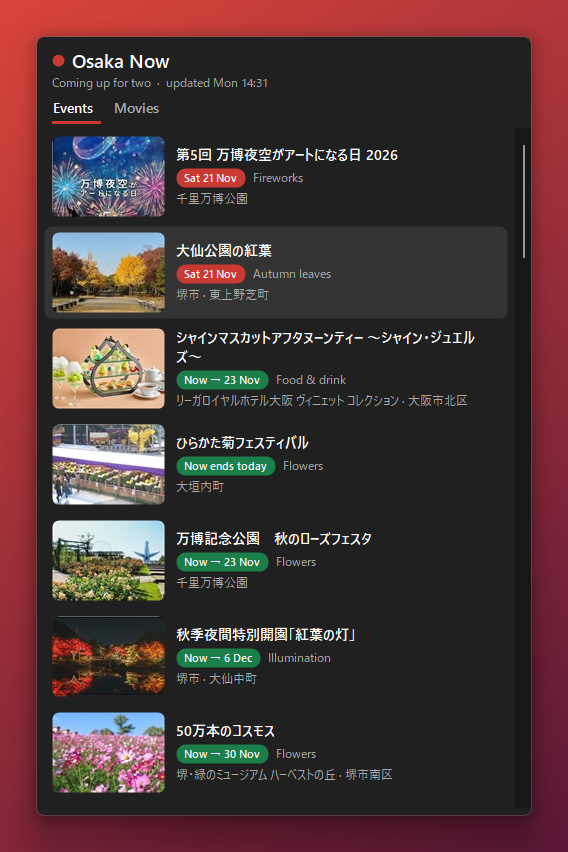
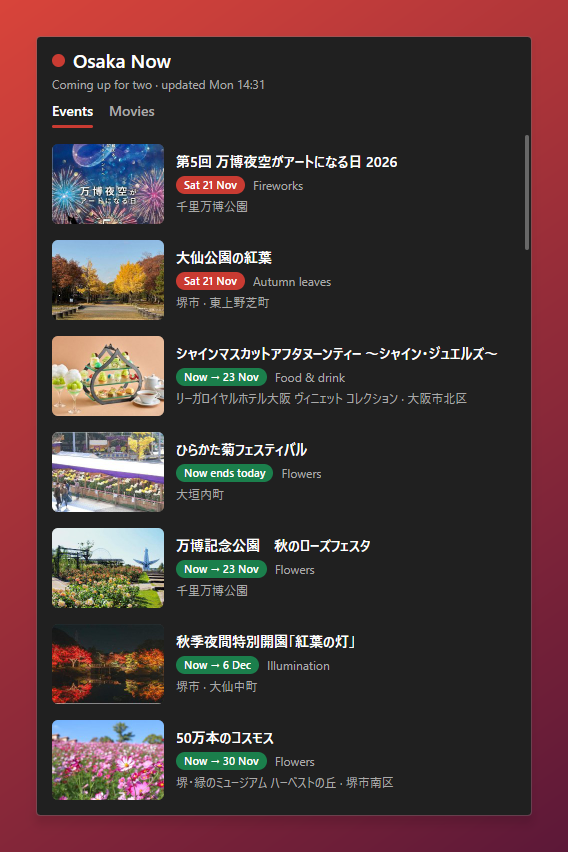
docs: cover installing and building on all three systems

Changed region(s): [[0.0299, 0.061, 0.8979, 1.0], [0.8979, 0.1221, 0.9577, 0.885], [0.6585, 0.3662, 0.868, 0.4272]]

diff --git a/README.md b/README.md
@@ -4,16 +4,17 @@
 
 # Osaka Now
 
-**What's on in Osaka, one click from your Windows taskbar.**
+**What's on in Osaka, one click from your taskbar or menu bar.**
 
 Events worth going out for and TOHO Cinemas showtimes with live seat availability,<br>
-in a 62 KB system tray app with no installer, no account and no dependencies.
+in a small tray app for Windows, macOS and Linux.
 
 [![Build](https://github.com/ian-ledig/osaka-now/actions/workflows/build.yml/badge.svg)](https://github.com/ian-ledig/osaka-now/actions/workflows/build.yml)
 [![Latest release](https://img.shields.io/github/v/release/ian-ledig/osaka-now?color=c93b32)](https://github.com/ian-ledig/osaka-now/releases/latest)
 [![Downloads](https://img.shields.io/github/downloads/ian-ledig/osaka-now/total?color=c93b32)](https://github.com/ian-ledig/osaka-now/releases)
 [![License: MIT](https://img.shields.io/badge/license-MIT-blue.svg)](LICENSE)
-![Platform: Windows 10 and 11](https://img.shields.io/badge/platform-Windows%2010%20%7C%2011-0078d4)
+![Platforms: Windows, macOS, Linux](https://img.shields.io/badge/platform-Windows%20%7C%20macOS%20%7C%20Linux-0078d4)
+![Built with Go and Wails](https://img.shields.io/badge/built%20with-Go%20%2B%20Wails-00add8)
 
 [**Download**](https://github.com/ian-ledig/osaka-now/releases/latest) · [What it does](#what-it-does) · [Install](#install) · [How it works](#how-events-are-sorted) · [日本語](#日本語)
 
@@ -25,6 +26,8 @@ in a 62 KB system tray app with no installer, no account and no dependencies.
 
 </div>
 
+Hi! I'm a young adult living in Osaka, trying to enjoy the city after work and on weekends. I made this small app for myself, to see quickly what's on around here. If you live in Osaka too, I hope it gets you out a bit more.
+
 The interface is in English. Event and film titles stay in Japanese, the way the sites publish them.
 
 ## What it does
@@ -33,25 +36,52 @@ The interface is in English. Event and film titles stay in Japanese, the way the
 - Lists the films now showing at TOHO Cinemas, most recent release first.
 - Click a film to see its showtimes at Umeda or Namba on a day you choose, with the seat status of each showing. Clicking a showing opens TOHO's seat selection page for it in your browser.
 - Refreshes in the background every six hours. If a refresh finishes while the window is open, the list is left as it is until you open it again.
-- Follows the Windows light or dark setting.
+- Follows the system's light or dark setting.
 
 ## Install
 
-You need Windows 10 or 11. The .NET Framework it runs on is already part of Windows.
+Download the file for your system from the [latest release](https://github.com/ian-ledig/osaka-now/releases/latest). There is no account and nothing to configure.
 
-1. Download `OsakaNow.exe` from the [latest release](https://github.com/ian-ledig/osaka-now/releases/latest).
-2. Put it in a folder you will keep, for example `Documents\OsakaNow`, and double-click it. The exe is not code-signed, so SmartScreen may stop it the first time: choose *More info*, then *Run anyway*.
-3. A red dot appears in the system tray. Windows puts new icons under *Show hidden icons* (the `^` arrow). Drag the dot onto the taskbar if you want it always visible.
-4. Right-click the dot and tick *Start with Windows*.
+### Windows
 
-Using it:
+Download `OsakaNow-windows-x64.exe`, put it in a folder you will keep, and double-click it. The file is not code-signed, so SmartScreen may stop it the first time: choose *More info*, then *Run anyway*.
 
-- Left-click the tray icon to open or close the list.
+A red dot appears in the system tray. Windows puts new icons under *Show hidden icons* (the `^` arrow); drag the dot onto the taskbar if you want it always visible.
+
+It uses the WebView2 runtime, which is part of Windows 11 and of any Windows 10 that is up to date.
+
+### macOS
+
+Download `OsakaNow-macos-universal.zip` (it works on both Apple silicon and Intel Macs), unzip it and move `OsakaNow.app` to *Applications*.
+
+The app is not notarized by Apple, so the first launch needs one extra step: right-click the app, choose *Open*, then *Open* again. If macOS still refuses, run this once in Terminal:
+
+```sh
+xattr -cr /Applications/OsakaNow.app
+```
+
+The red dot appears in the menu bar. There is no Dock icon.
+
+### Linux
+
+Pick the package for your distribution:
+
+```sh
+sudo apt install ./OsakaNow-linux-x64.deb      # Debian, Ubuntu
+sudo dnf install ./OsakaNow-linux-x64.rpm      # Fedora
+chmod +x OsakaNow-linux-x64.AppImage && ./OsakaNow-linux-x64.AppImage
+```
+
+It needs GTK 4 and WebKitGTK 6, which the `.deb` and `.rpm` pull in by themselves. On GNOME, tray icons only show with the [AppIndicator extension](https://extensions.gnome.org/extension/615/appindicator-support/).
+
+### Using it
+
+- Click the tray icon to open or close the list. Right-click it for *Open*, *Refresh now*, *Start at login* and *Quit*.
 - Click an event to open its page in your browser.
 - Click a film for its showtimes. `Esc` or `Backspace` goes back.
-- Right-click the tray icon for *Refresh now*, *Start with Windows* and *Exit*.
+- Starting the app a second time opens the window of the one already running.
 
-To uninstall, untick *Start with Windows*, choose *Exit*, then delete the exe and the folder `%LOCALAPPDATA%\OsakaNow`.
+To remove it, untick *Start at login*, choose *Quit* and delete the app. Its cache is the `OsakaNow` folder in `%LocalAppData%` (Windows), `~/Library/Caches` (macOS) or `~/.cache` (Linux).
 
 ## How events are sorted
 
@@ -61,7 +91,7 @@ Most of the score is about time. A short event that is on right now scores highe
 
 The rest comes from keywords in the title and description. There is a list of keyword groups that add points (illumination, fireworks, Christmas, autumn leaves, flowers, food and drink, markets, art, music, festivals) and a list that subtracts (children, family, seminars, and similar). Small bonuses go to events that cover the coming weekend and to events the source sites rank as popular.
 
-Both lists are plain arrays at the top of [`OsakaNow.cs`](OsakaNow.cs). If dates are not what you are planning, replace the words and rebuild.
+Both lists are in [`internal/feed/tuning.go`](internal/feed/tuning.go). If dates are not what you are planning, replace the words and rebuild.
 
 ## Where the data comes from
 
@@ -74,31 +104,34 @@ Both lists are plain arrays at the top of [`OsakaNow.cs`](OsakaNow.cs). If dates
 
 Requests are spaced one second apart. Thumbnails are downloaded once, kept as small JPEGs, and deleted after 30 days.
 
-The app does not collect or send anything about you. The sites above are the only hosts it contacts, and the only thing it writes is a cache in `%LOCALAPPDATA%\OsakaNow`.
+The app does not collect or send anything about you. The sites above are the only hosts it contacts, and the only thing it writes is its cache folder.
 
 ## Build from source
 
-You don't need Visual Studio or an SDK. `build.cmd` uses the C# compiler that comes with Windows.
+The app is written in Go with [Wails 3](https://wails.io/): Go does the fetching and ranking, and the window is a small web page in the system's own web view. You need [Go](https://go.dev/dl/) 1.26 or newer and [Node.js](https://nodejs.org/).
 
-```bat
+```sh
 git clone https://github.com/ian-ledig/osaka-now.git
 cd osaka-now
-build.cmd
-OsakaNow.exe
+go install github.com/wailsapp/wails/v3/cmd/wails3@v3.1.0
+wails3 build
 ```
 
-Two switches are useful when you change something:
+The result is in `bin/`. On Linux, install the headers first: `sudo apt install libgtk-4-dev libwebkitgtk-6.0-dev`.
 
-```bat
-OsakaNow.exe --selftest
-OsakaNow.exe --dump > ranking.txt
+Useful while working on it:
+
+```sh
+wails3 dev               # run with live reload
+go test ./internal/...   # run the tests
+bin/OsakaNow --dump      # fetch everything once and print both lists with their scores
 ```
 
-`--selftest` runs offline checks on the parsing, the sorting and the link validation. `--dump` fetches everything once and prints both lists with their scores.
+[CONTRIBUTING.md](CONTRIBUTING.md) explains where things are.
 
 ## Changing things
 
-The settings are constants at the top of the `Core` class in [`OsakaNow.cs`](OsakaNow.cs):
+The settings are in [`internal/feed/tuning.go`](internal/feed/tuning.go):
 
 - `Likes` and `Dislikes`: the keyword groups that raise or lower an event.
 - `Sources`: the listing pages to read. Any Walkerplus or Jalan area page works, so Kyoto, Kobe or Tokyo is a matter of changing the URLs.
@@ -107,11 +140,13 @@ The settings are constants at the top of the `Core` class in [`OsakaNow.cs`](Osa
 
 ## Limitations
 
-- It reads public web pages. If one of the sites changes its layout, a tab can come up empty until the parser is fixed. Please [open an issue](https://github.com/ian-ledig/osaka-now/issues/new/choose) if that happens.
+- I made it and use it on Windows. The macOS and Linux versions are built and started automatically for every release, but they have had much less real use, so please [report](https://github.com/ian-ledig/osaka-now/issues/new/choose) anything odd.
+- It reads public web pages. If one of the sites changes its layout, a tab can come up empty until the parser is fixed.
 - TOHO does not publish release dates, so they are looked up on eiga.com by title. A few films, mostly re-runs, don't match and are sorted last.
 - The Movies tab lists everything TOHO is showing in Japan. A film may have no showings at Umeda or Namba.
 - Japanese public holidays are not treated as weekends.
-- Dark mode is the one that has been used day to day. Light and high-contrast modes are less tested, and it has not been tried with a screen reader.
+- The window is a web view, so it uses more memory than a native tray app would: around 200 MB on Windows while it is running.
+- The downloads are not signed, which is why Windows and macOS ask before the first launch.
 
 ## Contributing
 
@@ -119,14 +154,14 @@ Issues and pull requests are welcome. [CONTRIBUTING.md](CONTRIBUTING.md) has the
 
 ## 日本語
 
-大阪のイベントと、TOHOシネマズ梅田・なんばの上映時間（空席状況つき）を、タスクトレイから見られる Windows 用の小さなアプリです。
+大阪のイベントと、TOHOシネマズ梅田・なんばの上映時間（空席状況つき）を、タスクトレイやメニューバーから見られる小さなアプリです。Windows・macOS・Linux で動きます。
 
 - 大阪府内のイベントを、開催日が近いものやデート向きのもの（イルミネーション、花火、紅葉、グルメ、マルシェ、展覧会など）から順に表示します。
 - TOHOシネマズで上映中の作品を、公開日が新しい順に表示します。
 - 作品をクリックすると、梅田・なんばの上映時間と空席状況を日付ごとに確認できます。
-- インストールは不要です。[最新リリース](https://github.com/ian-ledig/osaka-now/releases/latest)から `OsakaNow.exe` をダウンロードして起動してください。
+- [最新リリース](https://github.com/ian-ledig/osaka-now/releases/latest)から、お使いの OS 用のファイルをダウンロードしてください。
 
-画面の表示は英語ですが、イベント名と作品名は日本語のまま表示されます。Windows 10 / 11 で動きます。
+画面の表示は英語ですが、イベント名と作品名は日本語のまま表示されます。
 
 ## Disclaimer
 

diff --git a/CONTRIBUTING.md b/CONTRIBUTING.md
@@ -4,33 +4,61 @@ Bug reports, ideas and pull requests are welcome.
 
 ## Reporting a problem
 
-[Open an issue](https://github.com/ian-ledig/osaka-now/issues/new/choose). If a list is empty or wrong, attach the output of `OsakaNow.exe --dump > ranking.txt`. It shows what each source returned.
+[Open an issue](https://github.com/ian-ledig/osaka-now/issues/new/choose) and say which system you are on. If a list is empty or wrong, attach the output of `OsakaNow --dump > ranking.txt`. It shows what each source returned.
 
-## Building
+## Setting up
 
-You need Windows 10 or 11 and nothing else.
+You need [Go](https://go.dev/dl/) 1.26 or newer, [Node.js](https://nodejs.org/) and the Wails 3 command-line tool:
 
-```bat
-build.cmd
-OsakaNow.exe --selftest
+```sh
+go install github.com/wailsapp/wails/v3/cmd/wails3@v3.1.0
 ```
 
-`--selftest` should print `selftest ok`. The build workflow runs the same two steps on every pull request.
+On Linux you also need the GTK 4 and WebKitGTK 6 headers. On Ubuntu or Debian:
+
+```sh
+sudo apt install libgtk-4-dev libwebkitgtk-6.0-dev
+```
+
+Then, from the repository:
+
+```sh
+wails3 dev               # run with live reload
+wails3 build             # build bin/OsakaNow
+go test ./internal/...   # run the tests
+```
+
+`OsakaNow --show` opens the window straight away and keeps it open, which is handy when working on the layout.
+
+## Where things are
+
+| Path | What is in it |
+| --- | --- |
+| `main.go`, `service.go` | The tray icon, the window, and the methods the page can call |
+| `internal/feed` | Fetching, parsing and ranking events, films and showtimes. `tuning.go` holds the sources and keywords |
+| `internal/thumb` | Downloads, trims and shrinks the pictures |
+| `internal/store` | The cache on disk |
+| `frontend/` | The page shown in the window: plain TypeScript and CSS, no framework |
+| `build/` | Wails build files for each system (icons, manifests, packaging) |
 
 ## A few rules
 
-- The whole app is [`OsakaNow.cs`](OsakaNow.cs). Please keep it that way: no packages, no project files.
-- The compiler that ships with Windows only understands C# 5, so no string interpolation, `?.`, `out var` or expression-bodied members.
 - Don't make it fetch more often, and keep the pauses between requests.
-- Anything read from a web page is untrusted. If it ends up in a URL, a file name or a process start, validate it first. The existing code shows how.
-- If you add a parser or change the scoring, add an assertion for it in `Core.SelfTest`.
+- Anything read from a web page is untrusted. If it ends up in a URL, a file name or the page, validate it first. In the frontend, text from the web only goes in through `textContent`.
+- If you add a parser or change the scoring, add a test next to it.
+- Keep the frontend free of frameworks and runtime dependencies.
+- Run `gofmt` before committing.
 
 ## Commits
 
 Commit messages follow [Conventional Commits](https://www.conventionalcommits.org/): `feat:`, `fix:`, `docs:`, `refactor:`, `ci:`, `chore:`.
 
-Keep a pull request to one topic. If the window looks different afterwards, add a screenshot.
+Keep a pull request to one topic. If the window looks different afterwards, add a screenshot and say which system it was taken on.
 
 ## Adding a city or a source
 
-Event sources are the `Sources` array at the top of the `Core` class. Each entry is a listing URL, a popularity bonus and a flag. Any Walkerplus or Jalan area listing works without other changes. For a different site, write a parser that returns `Ev` rows and merge its results in `FetchAll`.
+Event sources are the `Sources` list in `internal/feed/tuning.go`. Each entry is a listing URL, a popularity bonus and a flag. Any Walkerplus or Jalan area listing works without other changes. For a different site, write a parser that returns `Entry` values and merge its results in `FetchEvents`.
+
+## Releasing
+
+Set the version in `main.go` and `build/config.yml`, run `wails3 task common:update:build-assets`, commit, then push a `v*` tag. The build workflow creates the release with the files for all three systems.

diff --git a/.github/PULL_REQUEST_TEMPLATE.md b/.github/PULL_REQUEST_TEMPLATE.md
@@ -1,5 +1,6 @@
 What does this change, and why?
 
 
-- [ ] `build.cmd` and `OsakaNow.exe --selftest` pass
+- [ ] `go test ./internal/...` passes
+- [ ] Tried it with `wails3 dev` (which system?)
 - [ ] Screenshot attached if the window looks different
